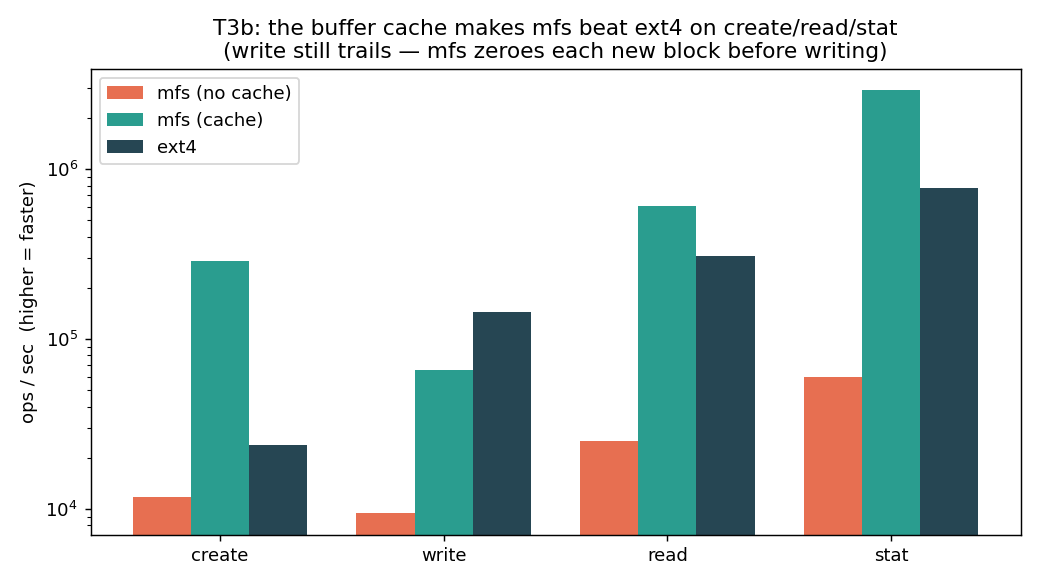
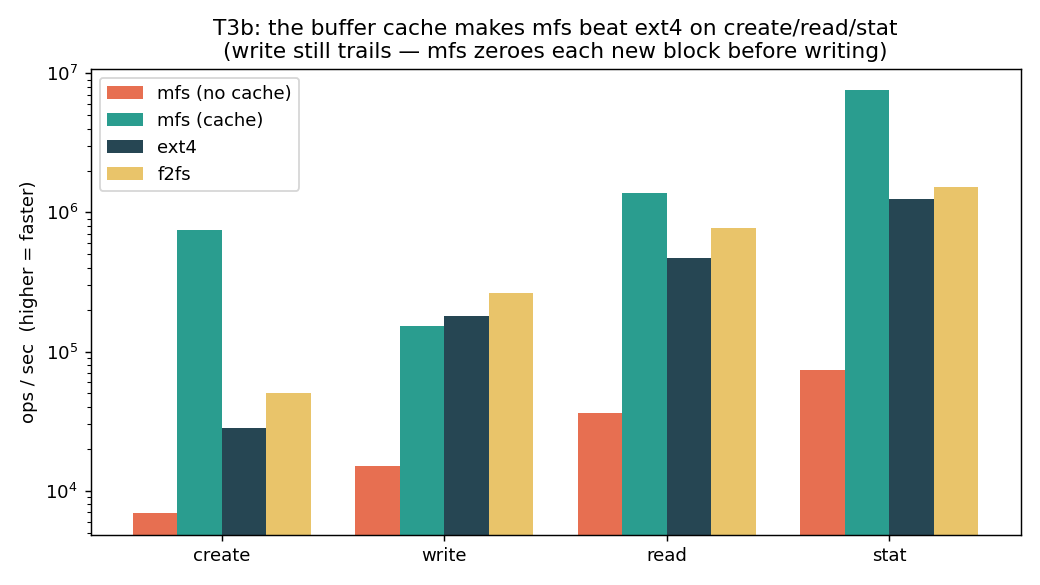
add f2fs to T3 and fio queue-depth sweep (T1b)

diff --git a/mini-aeolia/plot/plot_t3b.py b/mini-aeolia/plot/plot_t3b.py
@@ -12,15 +12,19 @@ def main():
     if not os.path.exists(CSV): sys.exit("run scripts/run_t3_cache.sh")
     rows = list(csv.DictReader(open(CSV)))
     ops = ["create", "write", "read", "stat"]
-    order = ["mfs_nocache", "mfs_cache", "ext4"]
-    labels = {"mfs_nocache": "mfs (no cache)", "mfs_cache": "mfs (cache)", "ext4": "ext4"}
-    colors = {"mfs_nocache": "#e76f51", "mfs_cache": "#2a9d8f", "ext4": "#264653"}
+    order = [t for t in ["mfs_nocache", "mfs_cache", "ext4", "f2fs"]
+             if any(r["target"] == t for r in rows)]
+    labels = {"mfs_nocache": "mfs (no cache)", "mfs_cache": "mfs (cache)",
+              "ext4": "ext4", "f2fs": "f2fs"}
+    colors = {"mfs_nocache": "#e76f51", "mfs_cache": "#2a9d8f",
+              "ext4": "#264653", "f2fs": "#e9c46a"}
     data = {t: {r["op"]: float(r["ops_per_s"]) for r in rows if r["target"] == t} for t in order}
 
-    x = np.arange(len(ops)); w = 0.26
+    x = np.arange(len(ops)); w = 0.8 / len(order)
     fig, ax = plt.subplots(figsize=(8, 4.5))
     for i, t in enumerate(order):
-        ax.bar(x + (i-1)*w, [data[t].get(o, 0) for o in ops], w, label=labels[t], color=colors[t])
+        off = (i - (len(order)-1)/2) * w
+        ax.bar(x + off, [data[t].get(o, 0) for o in ops], w, label=labels[t], color=colors[t])
     ax.set_xticks(x); ax.set_xticklabels(ops)
     ax.set_ylabel("ops / sec  (higher = faster)"); ax.set_yscale("log")
     ax.set_title("T3b: the buffer cache makes mfs beat ext4 on create/read/stat\n"

diff --git a/mini-aeolia/plot/plot_t1_depth.py b/mini-aeolia/plot/plot_t1_depth.py
@@ -1,0 +1,31 @@
+#!/usr/bin/env python3
+"""T1b — IOPS vs queue depth: io_uring interrupt vs polling."""
+import os, csv, sys
+from collections import defaultdict
+import matplotlib; matplotlib.use("Agg")
+import matplotlib.pyplot as plt
+
+HERE = os.path.dirname(os.path.dirname(os.path.abspath(__file__)))
+CSV = os.path.join(HERE, "results", "t1_depth.csv")
+
+def main():
+    if not os.path.exists(CSV): sys.exit("run scripts/run_t1_depth.sh")
+    iops = defaultdict(dict)
+    for r in csv.DictReader(open(CSV)):
+        iops[r["engine"]][int(r["qd"])] = float(r["iops"])
+    fig, ax = plt.subplots(figsize=(7, 4))
+    sty = {"interrupt": ("#e76f51", "o-"), "poll": ("#2a9d8f", "s-")}
+    for eng in ("interrupt", "poll"):
+        if eng not in iops: continue
+        qds = sorted(iops[eng]); col, mk = sty[eng]
+        ax.plot(qds, [iops[eng][q]/1e6 for q in qds], mk, color=col, label=eng)
+    ax.set_xscale("log", base=2); ax.set_xlabel("queue depth")
+    ax.set_ylabel("IOPS (millions)")
+    ax.set_title("T1b: throughput vs queue depth (io_uring)\n"
+                 "poll leads at low depth; both saturate as depth grows")
+    ax.legend(); fig.tight_layout()
+    out = os.path.join(HERE, "results", "t1_depth.png"); fig.savefig(out, dpi=130)
+    print("wrote", out)
+
+if __name__ == "__main__":
+    main()
